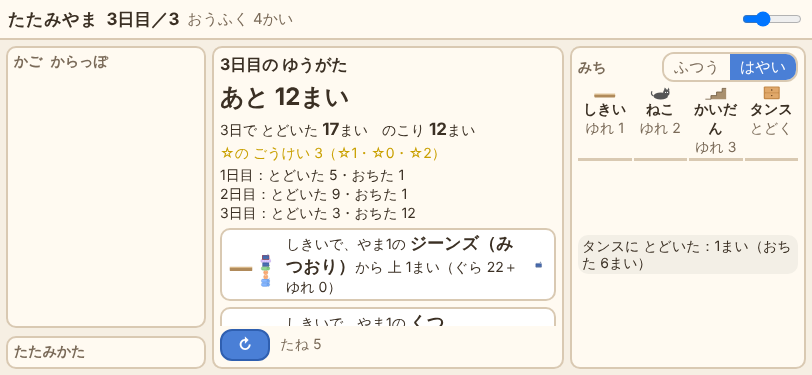
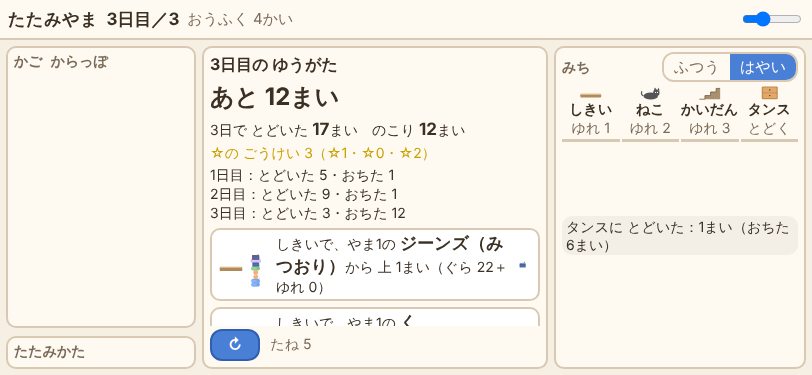
横向き：列幅とたたみ方ボタンの見た目を整える
Claude-Session: https://claude.ai/code/session_01MmzYoT4B9Fx3f1cD3sztui

Changed region(s): [[0.2155, 0.1173, 0.9852, 0.9973]]

diff --git a/index.html b/index.html
@@ -279,7 +279,7 @@
     :root { --fs: 14px; }
     #app { grid-template-rows: 40px 1fr; }
     #head { gap: 8px; padding: 0 8px; }
-    #main { grid-template-columns: 200px minmax(0, 1fr) 236px; grid-template-rows: minmax(0, 1fr); gap: 6px; padding: 6px; }
+    #main { grid-template-columns: 190px minmax(0, 1fr) 252px; grid-template-rows: minmax(0, 1fr); gap: 6px; padding: 6px; }
     #colL { order: 0; max-height: none; } #colM { order: 1; } #colR { order: 2; }
     body.sc-carry #colL, body.sc-evening #colL, body.sc-end #colL { display: flex; }
     body.sc-stack #walk, body.sc-stack #carryMsg, body.sc-stack #delivered { display: block; }
@@ -291,10 +291,10 @@
     .bitem { padding: 1px; } .bitem svg { height: 16px; } .bitem .nm { font-size: 14px; line-height: 1.1; }
     #foldBox { flex: none; min-height: 0; }
     #folds { grid-template-columns: minmax(0, 1fr); gap: 4px; }
-    .fbtn { padding: 2px 6px; flex-direction: row; align-items: center; gap: 6px; }
-    .fbtn svg { width: 40px; height: 22px; flex: none; }
-    .fbtn .fn { font-size: 14px; flex-direction: column; align-items: flex-start; gap: 0; }
-    .fbtn .ft { font-size: 14px; min-height: 0; flex: 1; }
+    .fbtn { padding: 2px 6px; gap: 0; }
+    .fbtn svg { height: 20px; }
+    .fbtn .fn { font-size: 14px; }
+    .fbtn .ft { font-size: 14px; min-height: 0; line-height: 1.2; }
     #foldHint { display: none; }
     #stackUI { gap: 2px; }
     #stacks { gap: 4px; }
